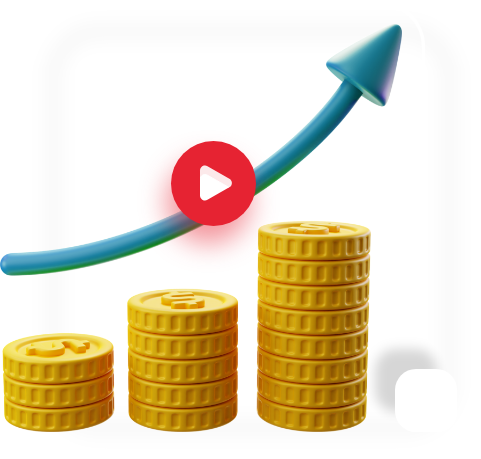
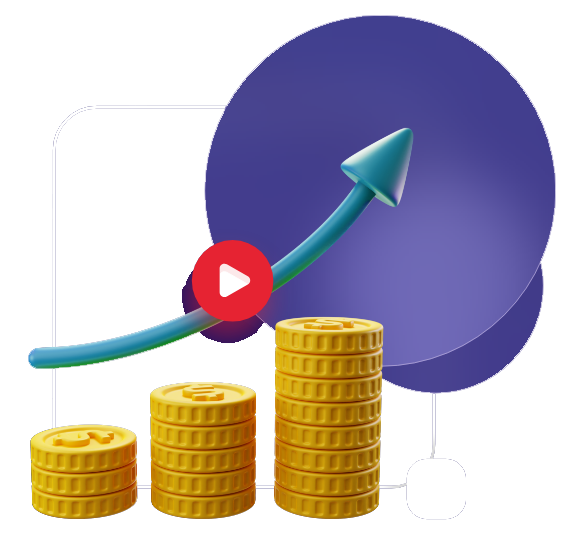
dev-larry

diff --git a/src/components/carousel.js b/src/components/carousel.js
@@ -1,0 +1,64 @@
+import React from "react";
+import Slider from "react-slick";
+
+export default function SimpleSlider() {
+  var settings = {
+    dots: true,
+    infinite: true,
+    speed: 500,
+    slidesToShow: 1,
+    slidesToScroll: 1,
+  };
+  return (
+    <Slider {...settings}>
+      <div>
+        <div class="bg-[#ED6E2D] p-6 rounded-lg">
+          <div class="flex-shrink-0 w-10 h-10 rounded-full bg-indigo-500 inline-flex items-center justify-center text-white relative z-10"></div>
+          <p class="leading-relaxed text-base">
+            Charge per transaction for first $100,000 is $1
+          </p>
+        </div>
+      </div>
+      <div>
+        <div class="bg-white p-6 rounded-lg border">
+          <div class="flex-shrink-0 w-10 h-10 rounded-full bg-indigo-500 inline-flex items-center justify-center text-white relative z-10"></div>
+          <p class="leading-relaxed text-base">
+            Charge per transaction for first $100,000 is $1
+          </p>
+        </div>
+      </div>
+      <div>
+        <div class="bg-[#ED6E2D] p-6 rounded-lg">
+          <div class="flex-shrink-0 w-10 h-10 rounded-full bg-indigo-500 inline-flex items-center justify-center text-white relative z-10"></div>
+          <p class="leading-relaxed text-base">
+            Charge per transaction for first $100,000 is $1
+          </p>
+        </div>
+      </div>
+      <div>
+        <div class="bg-white p-6 rounded-lg border">
+          <div class="flex-shrink-0 w-10 h-10 rounded-full bg-indigo-500 inline-flex items-center justify-center text-white relative z-10"></div>
+          <p class="leading-relaxed text-base">
+            Charge per transaction for first $100,000 is $1
+          </p>
+        </div>
+      </div>
+      <div>
+        <div class="bg-[#ED6E2D] p-6 rounded-lg">
+          <div class="flex-shrink-0 w-10 h-10 rounded-full bg-indigo-500 inline-flex items-center justify-center text-white relative z-10"></div>
+          <p class="leading-relaxed text-base">
+            Charge per transaction for first $100,000 is $1
+          </p>
+        </div>
+      </div>
+      <div>
+        <div class="bg-white p-6 rounded-lg border">
+          <div class="flex-shrink-0 w-10 h-10 rounded-full bg-indigo-500 inline-flex items-center justify-center text-white relative z-10"></div>
+          <p class="leading-relaxed text-base">
+            Charge per transaction for first $100,000 is $1
+          </p>
+        </div>
+      </div>
+    </Slider>
+  );
+}

diff --git a/src/components/payments.js b/src/components/payments.js
@@ -1,6 +1,7 @@
 import React from "react";
 import "../styles/payments.css";
-import Himg from "../assets/Group 222.png";
+import  Payimg from "../assets/Group 236.png";
+import Carousel from "./carousel";
 
 function classNames(...classes) {
   return classes.filter(Boolean).join(" ");
@@ -23,7 +24,7 @@ export default function Payments() {
             <p className="mt-3 mb-4 max-w-md mx-auto text-lg text-white sm:text-xl md:mt-5 md:max-w-3xl">
               we offer you a wide range of options
             </p>
-            <div class="relative text-gray-600">
+            <div class="relative text-gray-600 mb-10">
               <input
                 type="search"
                 name="serch"
@@ -50,12 +51,13 @@ export default function Payments() {
                 </svg>
               </button>
             </div>
+            <Carousel/>
           </div>
         </div>
-        <div className="relative w-full h-64 sm:h-72 md:h-96 lg:absolute lg:inset-y-0 lg:right-0 lg:w-1/2 lg:h-full">
+        <div className="relative w-full h-64 sm:h-72 md:h-96 lg:absolute lg:inset-y-0 lg:right-0 lg:w-1/2 lg:h-full Pay-cont">
           <img
-            className="absolute inset-0  mt-32 object-cover H-img"
-            src={Himg}
+            className="absolute inset-0  mt-20 object-cover Pay-img"
+            src={Payimg}
             alt=""
           />
         </div>

diff --git a/public/index.html b/public/index.html
@@ -18,6 +18,10 @@
   <link
     href="https://fonts.googleapis.com/css2?family=Raleway:ital,wght@0,100;0,200;0,300;0,400;0,500;0,600;0,700;0,800;0,900;1,100;1,200;1,300;1,400;1,500;1,600;1,700;1,800;1,900&display=swap"
     rel="stylesheet">
+  <link rel="stylesheet" type="text/css" charset="UTF-8"
+    href="https://cdnjs.cloudflare.com/ajax/libs/slick-carousel/1.6.0/slick.min.css" />
+  <link rel="stylesheet" type="text/css"
+    href="https://cdnjs.cloudflare.com/ajax/libs/slick-carousel/1.6.0/slick-theme.min.css" />
   <!--
       Notice the use of %PUBLIC_URL% in the tags above.
       It will be replaced with the URL of the `public` folder during the build.

diff --git a/src/components/hero.js b/src/components/hero.js
@@ -168,7 +168,7 @@ export default function Hero() {
         </div>
         <div className="relative w-full h-64 sm:h-72 md:h-96 lg:absolute lg:inset-y-0 lg:right-0 lg:w-1/2 lg:h-full">
           <img
-            className="absolute inset-0  mt-32 object-cover H-img"
+            className="absolute inset-0  mt-16 object-cover H-img"
             src={Himg}
             alt=""
           />

diff --git a/src/styles/payments.css b/src/styles/payments.css
@@ -4,3 +4,17 @@
     background-repeat: no-repeat;
     background-size: cover;
 }
+.Pay-cont{
+    direction: rtl;
+}
+.Pay-img{
+    width: 45rem;
+}
+@media (max-width: 1023px) {
+    .Pay-img{
+        margin-top: 0px;
+        margin-left: auto;
+        margin-right: auto;
+    }
+
+}
